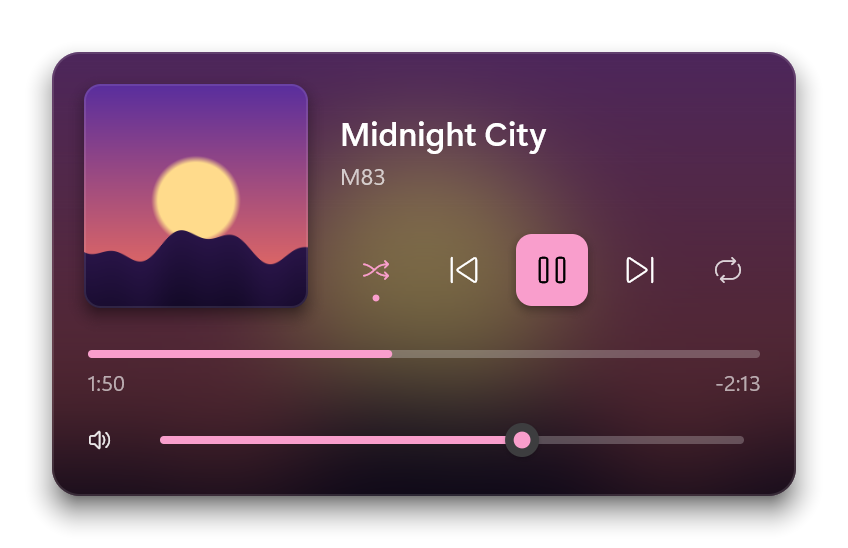
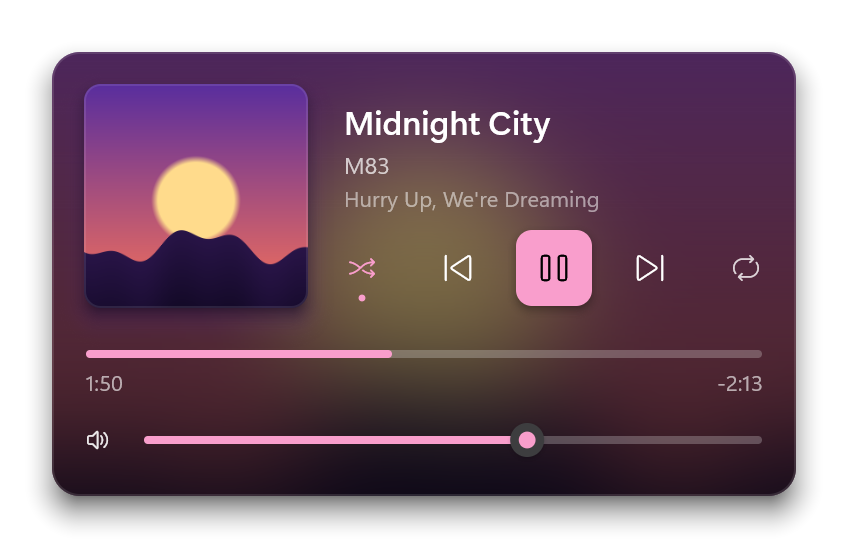
docs: README e capturas da versão 1.1.0
- Widget com tudo dentro (nova imagem com as variações), sempre visível.
- Card acrílico sobre papel de parede e estilos do aviso de teclas.
- "A seguir" redesenhado, com álbum, e quando ele aparece.
- Prévia fixa nas configurações, atualização pelo instalador e registro de
  diagnóstico (TASKBEAT_LOG).
- Capturas e GIF regenerados pelo próprio código.

diff --git a/README.md b/README.md
@@ -19,12 +19,19 @@ Fluent do Windows 11 (referências: FluentFlyout, Fluent 2 e cards de "now playi
   <img src="docs/screenshots/taskbar-card.png" width="820" alt="Taskbeat na barra de tarefas, com o card de controles aberto">
 </p>
 
-**Card expandido** em três estilos: capa desfocada, cor do álbum e vidro.
+**Widget da barra**: tudo dentro do mesmo fundo — capa, música, indicador e, se quiser, os
+botões (aleatório, anterior, play, próximo, repetir), em formato arredondado, pílula ou reto:
+
+<p align="center">
+  <img src="docs/screenshots/taskbar-widgets.png" width="420" alt="Quatro variações do widget da barra: só a música; com os botões; em pílula com indicador; reto com play só no ícone">
+</p>
+
+**Card expandido** em três estilos: capa desfocada, cor do álbum e acrílico (desfoca o que está atrás).
 
 <p align="center">
   <img src="docs/screenshots/card-artwork.png" width="32%" alt="Card com a capa desfocada">
   <img src="docs/screenshots/card-album-color.png" width="32%" alt="Card na cor do álbum">
-  <img src="docs/screenshots/card-glass.png" width="32%" alt="Card de vidro">
+  <img src="docs/screenshots/card-glass.png" width="32%" alt="Card acrílico sobre um papel de parede colorido">
 </p>
 
 **"A seguir"** (quando o player troca de música sozinho) e **aviso de Caps Lock**:
@@ -32,6 +39,12 @@ Fluent do Windows 11 (referências: FluentFlyout, Fluent 2 e cards de "now playi
 <p align="center">
   <img src="docs/screenshots/up-next.png" width="404" alt="Cartão A seguir">
   <img src="docs/screenshots/caps-lock.png" width="288" alt="Aviso de Caps Lock ativado">
+</p>
+
+Aviso de teclas com fundo **sólido**, **acrílico** ou na **cor de destaque**, e ícone de letra, cadeado ou teclado:
+
+<p align="center">
+  <img src="docs/screenshots/caps-lock-styles.png" width="820" alt="Três avisos: sólido com a letra A, acrílico com cadeado e na cor de destaque com teclado numérico">
 </p>
 
 **Configurações** com prévia ao vivo e **instalador**:
@@ -44,22 +57,34 @@ Fluent do Windows 11 (referências: FluentFlyout, Fluent 2 e cards de "now playi
 ## O que faz
 
 - **Na barra de tarefas** (compacto): capa + título/artista, indicador animado
-  "tocando agora" e letreiro para títulos longos. Os botões ⏮ ▶ ⏭ ficam no card
-  por padrão (opcionalmente também na barra).
+  "tocando agora" e letreiro para títulos longos, tudo dentro de um único fundo.
+  Fica sempre na barra (com "Nada tocando" quando não há música; dá para desligar).
+  Os botões ficam no card por padrão; ligados na barra, entram no mesmo fundo
+  (⏮ ▶ ⏭, mais aleatório e repetir opcionais), com separador, play preenchido ou
+  só ícone e formato do fundo (arredondado, pílula, reto).
 - **Card expandido** (clique na música): capa grande, aleatório / anterior / play /
   próximo / repetir, barra de progresso arrastável e volume. O app de origem
   (Spotify, Brave…) fica escondido por padrão (opção "Mostrar app de origem").
-  Fundo **capa desfocada**, **cor do álbum** ou **vidro**; layout horizontal ou
-  vertical; tema; cor de destaque (capa ou Windows); cantos; formato do play.
-- **"A seguir"**: cartão animado com a próxima música, só quando o player troca de
-  faixa sozinho (trocas manuais não mostram).
+  Fundo **capa desfocada**, **cor do álbum** ou **acrílico** (vidro fosco que
+  desfoca o que está atrás); layout horizontal ou vertical; tema; cor de destaque
+  (capa ou Windows); cantos; formato do play. Mostra também o álbum, quando o
+  player informa. Aleatório e repetir aparecem sempre (apagados nos players que
+  não deixam mudar pelo Windows, como os navegadores; clicar explica o porquê)
+  ou só quando o player permite.
+- **"A seguir"**: cartão animado com a próxima música (capa, título, artista e
+  álbum), só quando o player troca de faixa sozinho (trocas manuais não mostram),
+  inclusive quando você pula para o fim da música. Com o card aberto, aparece
+  empilhado acima dele. Espera um instante pela capa nova antes de aparecer.
 - **Caps Lock / Num Lock**: aviso animado opcional ao ligar/desligar, com posição
   (centro da tela, topo ou acima do player, mais ajuste fino horizontal/vertical),
-  cantos, tamanho, tema, duração e botão "Mostrar agora". Só essas duas teclas são
-  observadas; nada do que você digita é lido.
+  fundo sólido, acrílico ou na cor de destaque (com opacidade e intensidade do
+  desfoque), ícone (letra, cadeado ou teclado), animação (deslizar, zoom ou
+  esmaecer), cantos, tamanho, tema, duração e botão "Mostrar agora". Só essas duas
+  teclas são observadas; nada do que você digita é lido.
 - **Barras de áudio dinâmicas** (desligadas por padrão): mini visualizador.
 - **Configurações** (clique no ícone da bandeja): janela Fluent com fundo Mica,
-  redimensionável/maximizável, pré-visualização ao vivo de cada componente,
+  abre maximizada (redimensionável), pré-visualização ao vivo de cada componente
+  sempre à vista (fica fixa no topo enquanto as opções rolam),
   controles segmentados e rolagem suave a 60 fps.
 
 Funciona com qualquer player que publique no painel de mídia do Windows (SMTC):
@@ -101,7 +126,8 @@ Como:
 | Volume | `IAudioEndpointVolume` | `src/volume.rs` |
 | Espectro | Hann + FFT 4096 (`realfft`), bandas log, AGC | `src/dsp.rs` |
 | Desenho (widget, card, "A seguir", Caps Lock) | Renderização própria com anti-aliasing (SDF), desfoque, sombras | `src/ui.rs`, `src/render.rs` |
-| Janelas sobre a barra | Janelas *layered* com alfa por pixel, topmost | `src/overlay.rs` |
+| Janelas sobre a barra | Janelas *layered* com alfa por pixel, topmost; o widget pertence à barra (não some atrás dela quando ela é ativada) | `src/overlay.rs` |
+| Fundo acrílico | Captura do que está atrás (antes de a janela aparecer), redução, desfoque, saturação, tinta e granulado | `src/overlay.rs`, `src/render.rs` |
 | Texto e ícones | DirectWrite (Direct2D em software, antialias em tons de cinza nas duas direções) → máscaras; fallback GDI | `src/text.rs` |
 | Capas reduzidas | Pirâmide de mipmaps (sem serrilhado ao encolher) | `src/render.rs` |
 | Posição | `Shell_TrayWnd` + `TrayNotifyWnd`, DPI por monitor, oculta em tela cheia | `src/taskbar.rs` |
@@ -130,7 +156,11 @@ Gera `dist\Taskbeat-Setup-<versão>.exe` (um arquivo só, ~2 MB). O próprio
   trabalho e abrir ao terminar.
 - Por usuário, sem administrador. Atalho no Menu Iniciar e registro em
   Configurações > Apps instalados.
-- Rodar de novo atualiza por cima (fecha o app aberto antes).
+- Rodar de novo detecta a versão instalada e compara com a do instalador: mostra
+  **Atualização disponível (v1.0.1 → v1.1.0)** e atualiza no mesmo lugar, sem
+  desinstalar, mantendo configurações, atalhos e inicialização (fecha o app antes e
+  abre de novo no fim). Com a mesma versão oferece **Reinstalar**; com uma mais nova
+  instalada avisa antes de voltar a versão.
 - Desinstalar: pelo "Apps instalados" (`Taskbeat.exe --uninstall`), com opção de
   apagar também as configurações.
 
@@ -165,6 +195,10 @@ $env:TASKBEAT_LANG="pt"; cargo test --release demo_gif -- --ignored
 ```
 
 `$env:TV_DEMO_MEDIA=1` faz as prévias da tela de configurações usarem a música de exemplo.
+
+Diagnóstico (ex.: o "A seguir" não apareceu): `$env:TASKBEAT_LOG="$env:TEMP\taskbeat.log"`
+antes de abrir o app grava cada leitura do player e cada troca de faixa
+(automática ou manual) nesse arquivo, também no build release.
 
 ## Limitações
 
